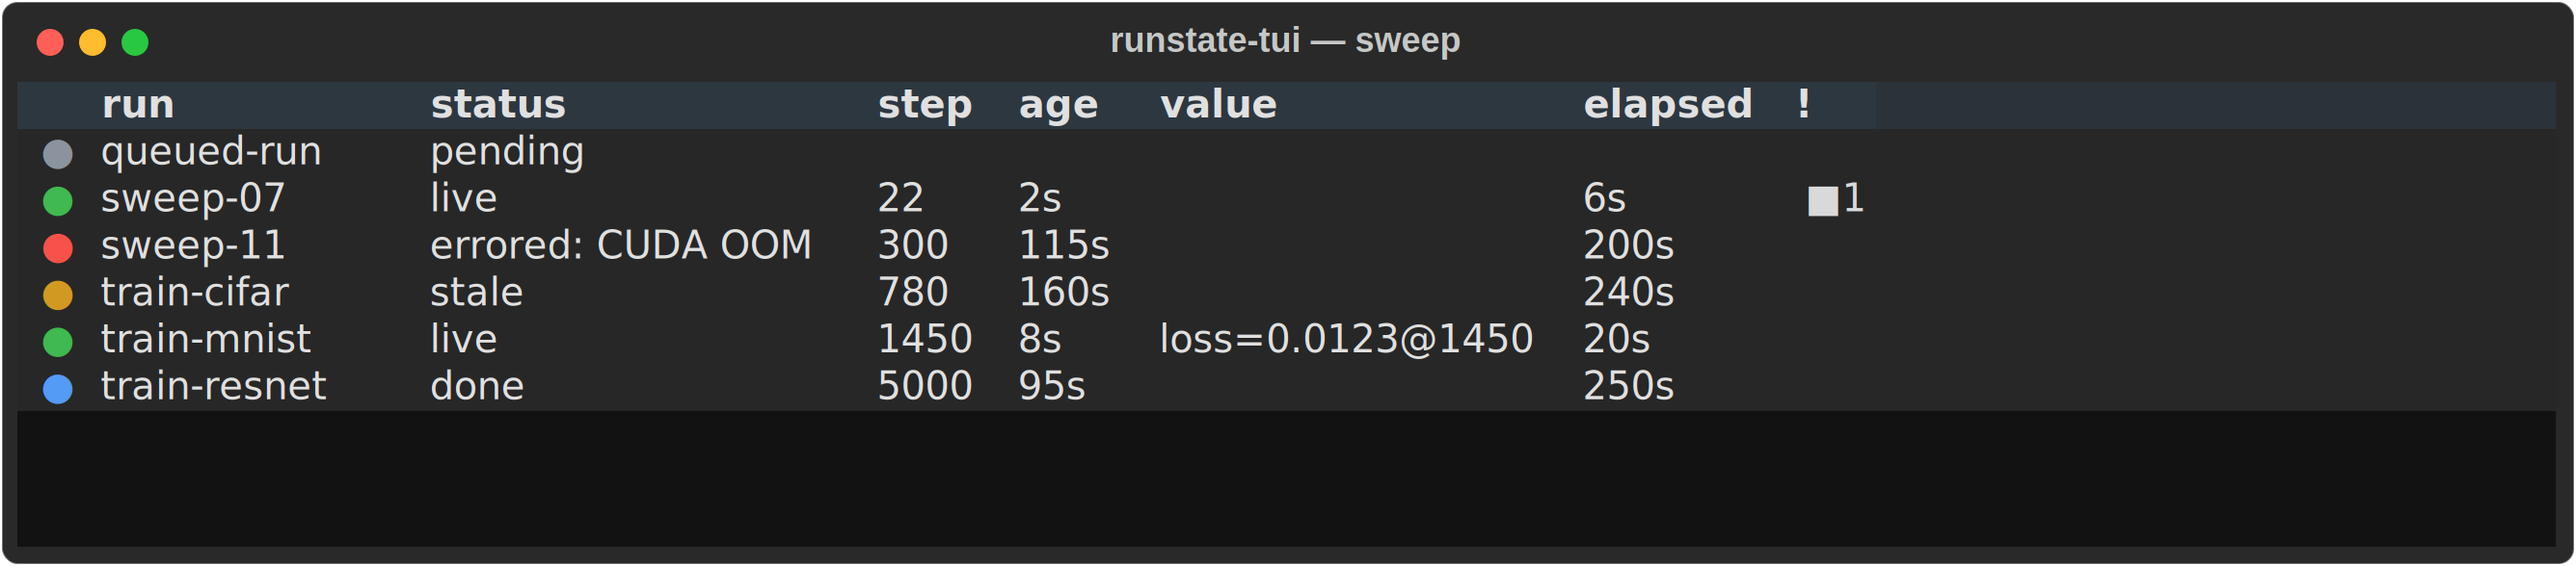
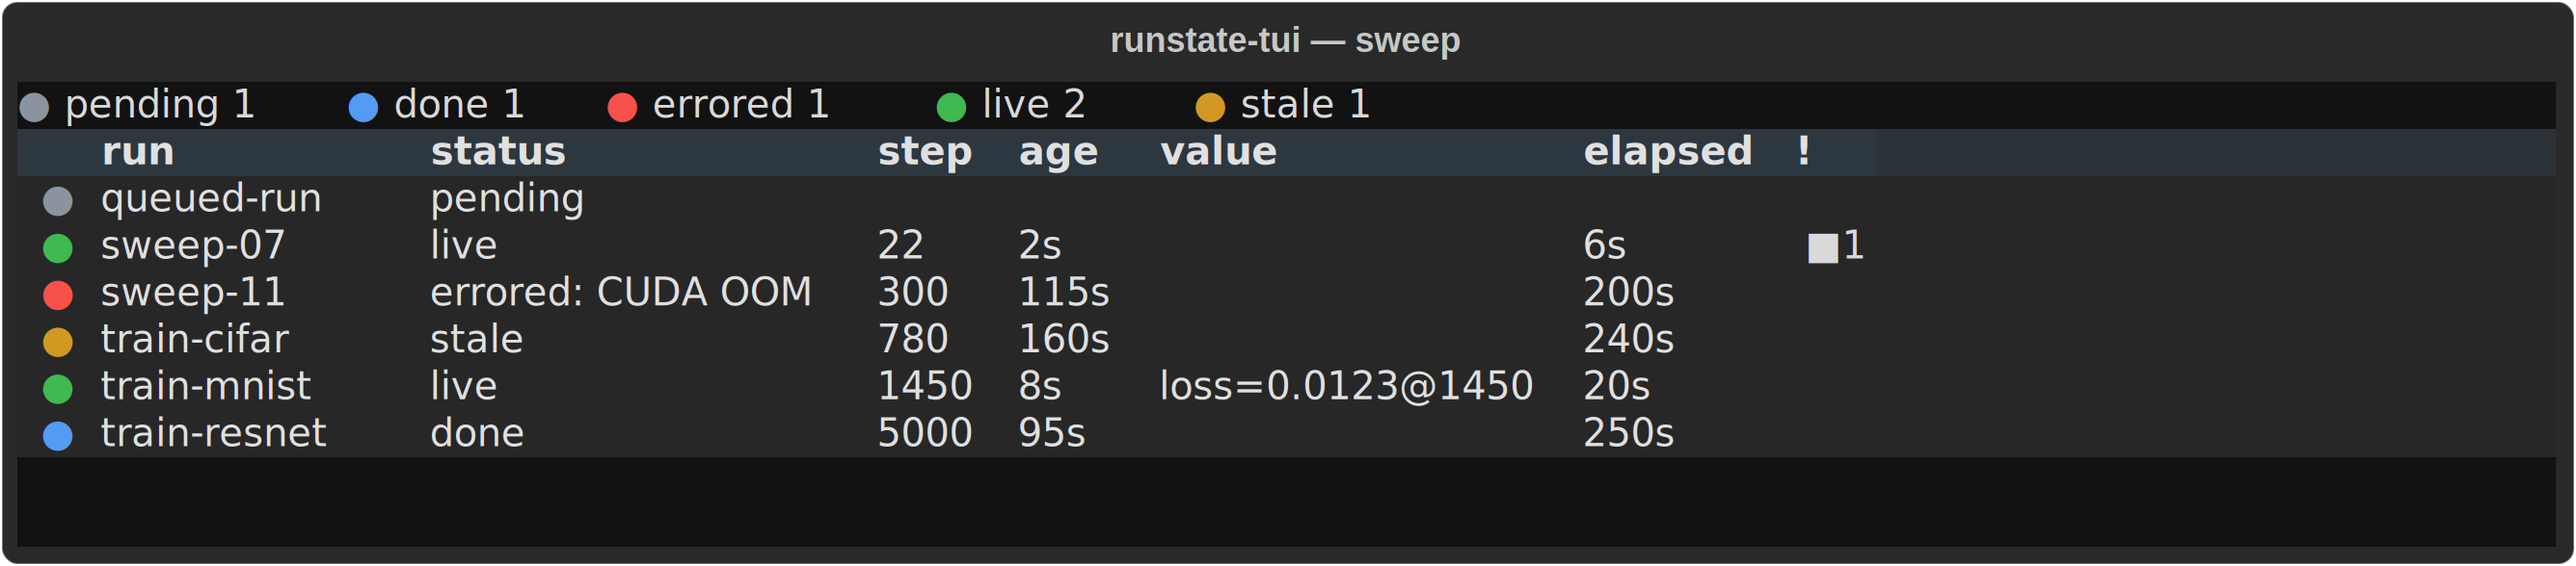
docs(showcase): strip the macOS window buttons from screenshot chrome
Textual's SVG export draws red/yellow/green window buttons in the title bar.
They read as three `●` traffic-lights and collide with the status dots the
cockpit itself uses (pending/live/errored/stale/done), which is visually
confusing in exactly the table and integrity scenes. Strip that
`<g transform="translate(26,22)">` group from the exported SVG before writing
it and rendering the PNG, and raise if Textual's template ever stops matching
rather than silently shipping the chrome. Regenerated all five scenes.

Claude-Session: https://claude.ai/code/session_01N5awsJ4U1LEvU2tui2aVqM

diff --git a/scripts/showcase.py b/scripts/showcase.py
@@ -4,10 +4,24 @@ deterministically (seeded logs + injected fixed clock). Run: `uv run python -m s
 from __future__ import annotations
 
 import asyncio
+import re
 import sqlite3
 import tempfile
 from collections.abc import Awaitable, Callable
 from pathlib import Path
+
+# Textual's SVG export draws macOS-style red/yellow/green window buttons in the title bar. They
+# read as three `●` traffic-lights and collide with the status dots the cockpit itself uses, so we
+# strip them. The offset/colors are constants in Textual's template; fail loudly if it ever stops
+# matching rather than silently shipping the disturbing chrome.
+_WINDOW_BUTTONS = re.compile(r'\s*<g transform="translate\(26,22\)">.*?</g>', re.DOTALL)
+
+
+def _strip_window_buttons(svg: str) -> str:
+    stripped, n = _WINDOW_BUTTONS.subn("", svg, count=1)
+    if n != 1:
+        raise RuntimeError("window-button chrome not found in exported SVG — Textual template changed?")
+    return stripped
 
 from runstate import create_channel
 from textual.app import App
@@ -48,7 +62,7 @@ async def capture(
         if before is not None:
             await before(pilot)
             await pilot.pause()
-        svg = app.export_screenshot(title=title)
+        svg = _strip_window_buttons(app.export_screenshot(title=title))
     out.parent.mkdir(parents=True, exist_ok=True)
     out.with_suffix(".svg").write_text(svg)
     cairosvg.svg2png(bytestring=svg.encode(), write_to=str(out), scale=2.0)
